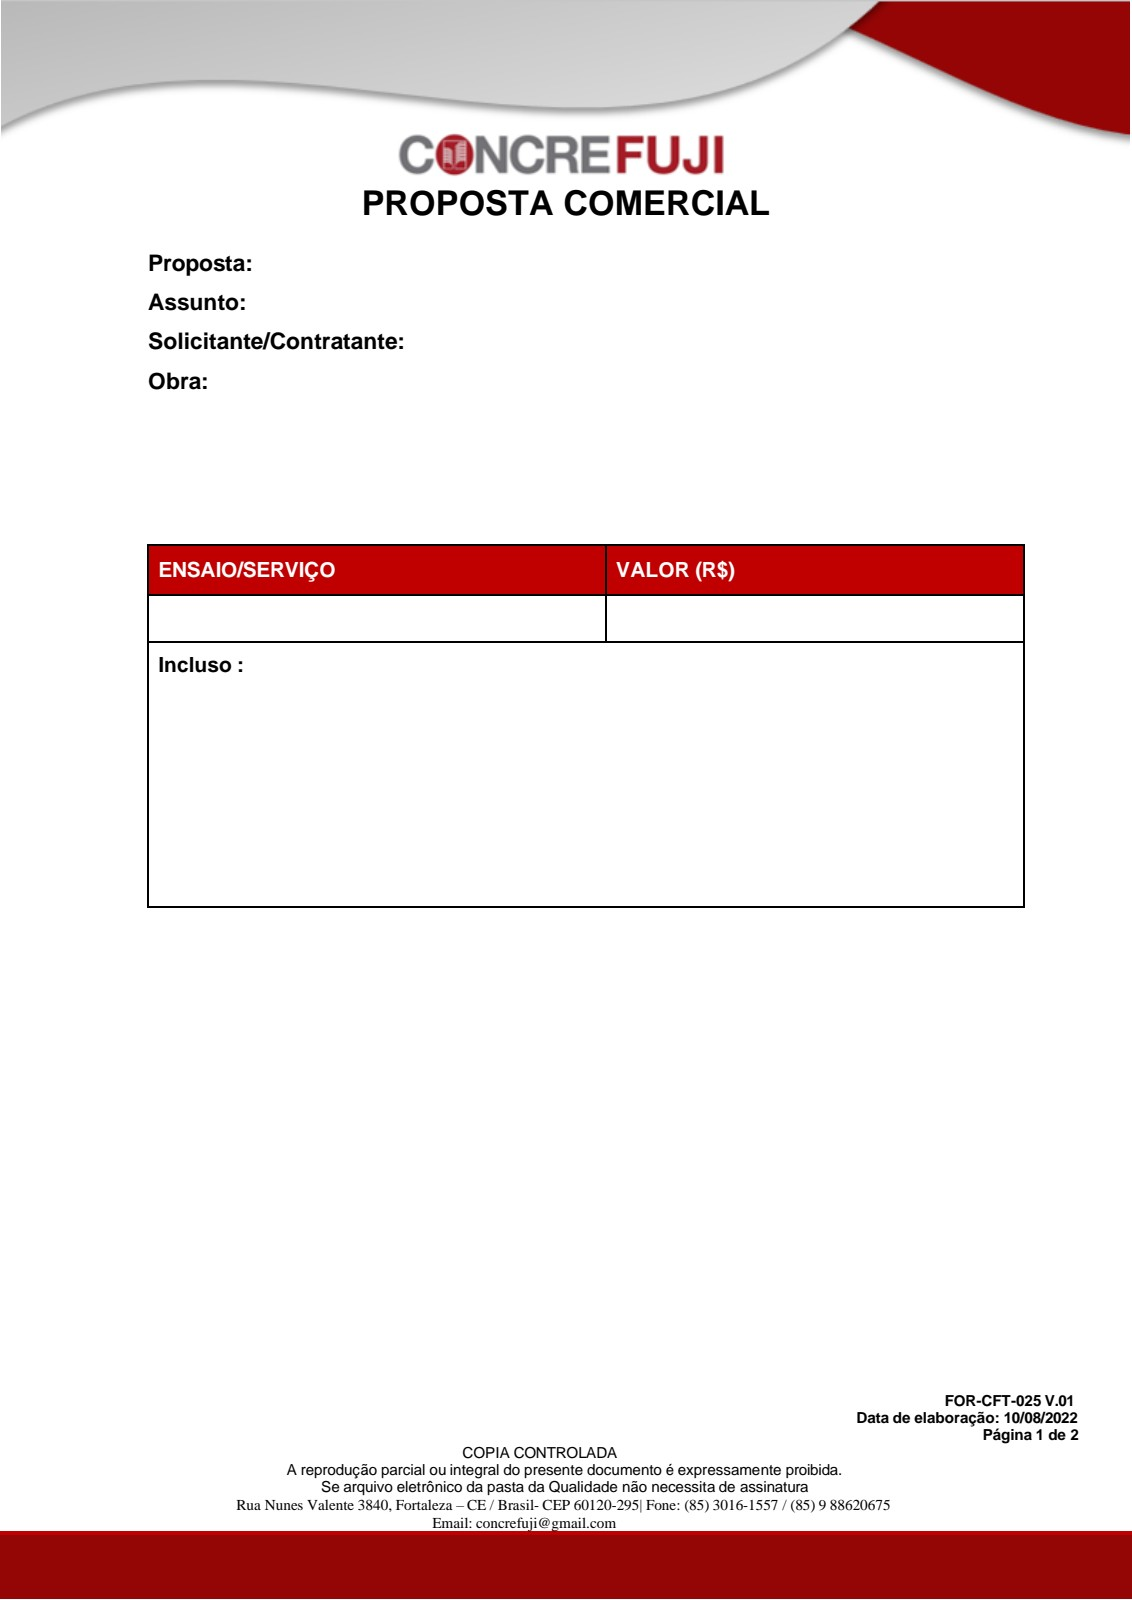
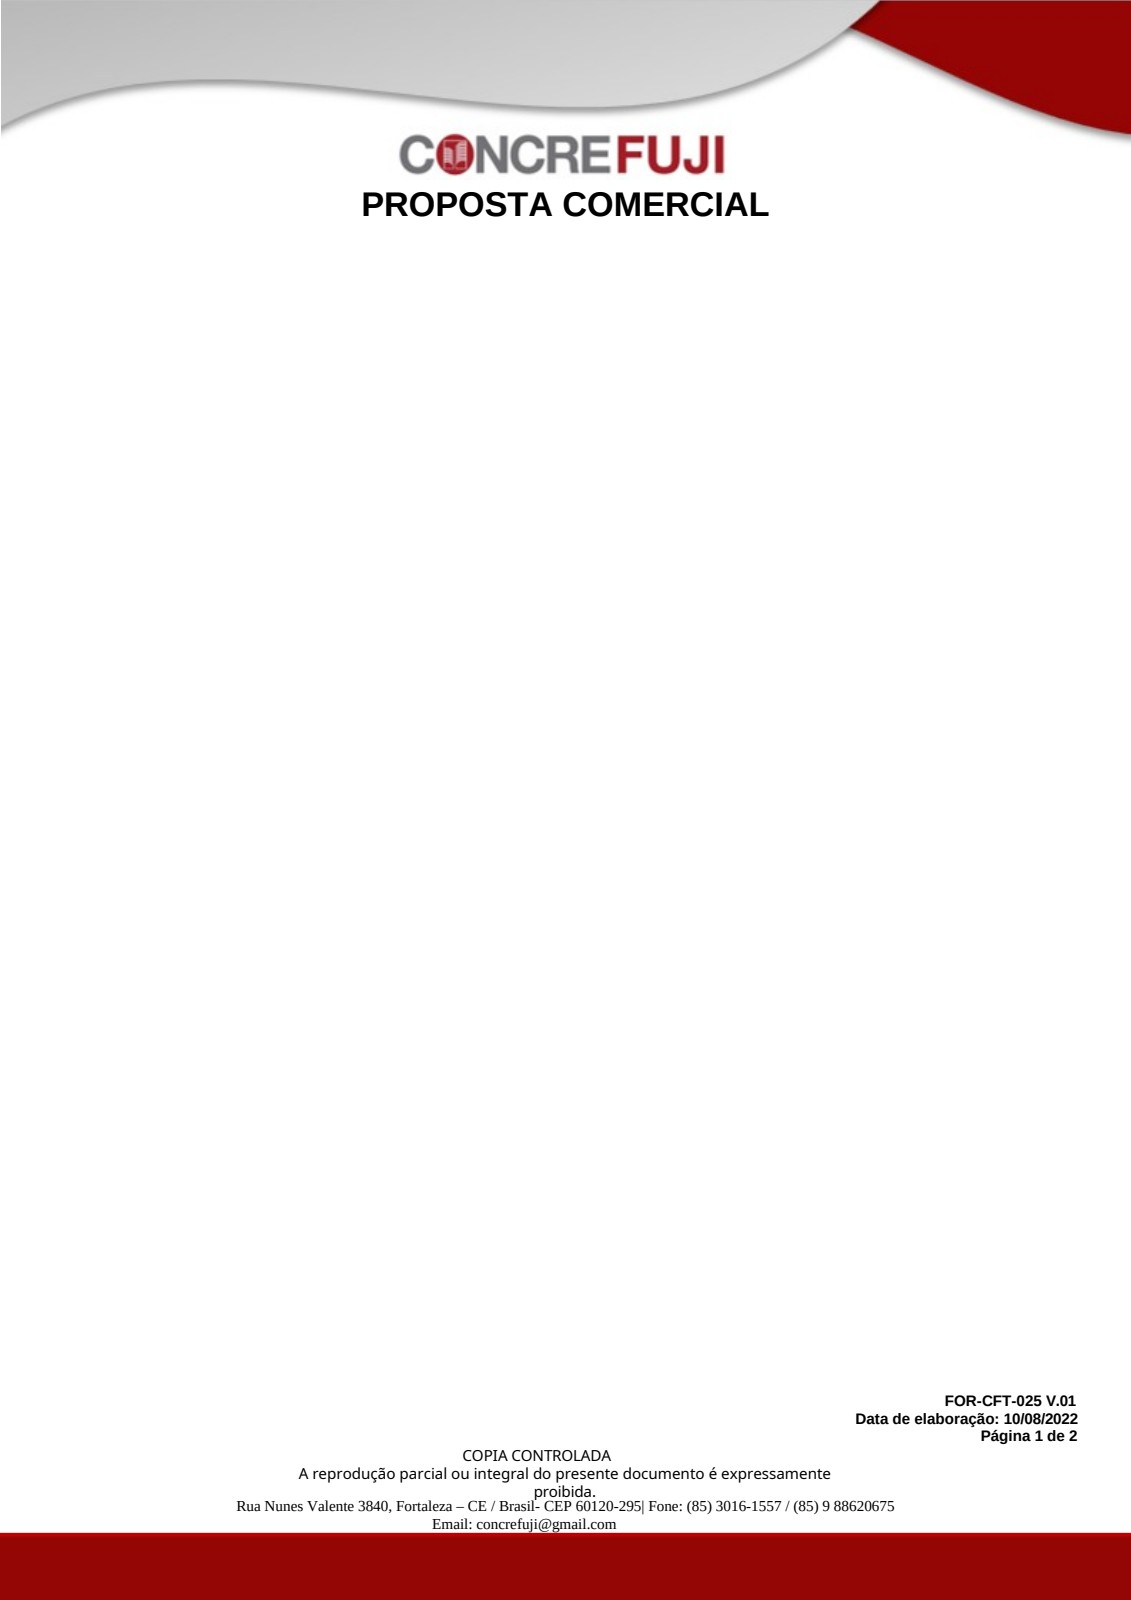
Changes

diff --git a/src/components/propostas/PropostaA4Preview.tsx b/src/components/propostas/PropostaA4Preview.tsx
@@ -2,8 +2,8 @@ import { forwardRef } from 'react';
 import { Proposta } from '@/hooks/usePropostas';
 import { format } from 'date-fns';
 import { ptBR } from 'date-fns/locale';
-import headerImg from '@/assets/proposta-header.png';
-import footerImg from '@/assets/proposta-footer.png';
+import page1Bg from '@/assets/proposta-page1-bg.jpg';
+import page2Bg from '@/assets/proposta-page2-bg.jpg';
 import assinaturaImg from '@/assets/proposta-assinatura.jpg';
 
 interface PropostaA4PreviewProps {
@@ -12,32 +12,28 @@ interface PropostaA4PreviewProps {
 
 const PAGE_STYLE: React.CSSProperties = {
   width: '210mm',
-  minHeight: '297mm',
+  height: '297mm',
   position: 'relative',
-  background: '#fff',
+  backgroundSize: '100% 100%',
+  backgroundRepeat: 'no-repeat',
+  backgroundPosition: 'center',
   fontFamily: "'Times New Roman', Times, serif",
   fontSize: '11px',
   lineHeight: 1.5,
   color: '#000',
   pageBreakAfter: 'always',
   boxSizing: 'border-box',
+  overflow: 'hidden',
 };
 
+/* Content area sits below the header graphic and above the footer */
 const CONTENT_STYLE: React.CSSProperties = {
-  padding: '12mm 22mm 38mm 22mm',
-};
-
-const HEADER_STYLE: React.CSSProperties = {
-  width: '100%',
-  display: 'block',
-};
-
-const FOOTER_STYLE: React.CSSProperties = {
   position: 'absolute',
-  bottom: 0,
-  left: 0,
-  width: '100%',
-  display: 'block',
+  top: '52mm',      /* below the header/logo area */
+  left: '22mm',
+  right: '22mm',
+  bottom: '52mm',   /* above the footer area */
+  overflow: 'hidden',
 };
 
 export const PropostaA4Preview = forwardRef<HTMLDivElement, PropostaA4PreviewProps>(
@@ -47,11 +43,10 @@ export const PropostaA4Preview = forwardRef<HTMLDivElement, PropostaA4PreviewPro
     return (
       <div ref={ref} className="proposta-print-root">
         {/* ═══ PAGE 1 ═══ */}
-        <div style={PAGE_STYLE}>
-          <img src={headerImg} alt="" style={HEADER_STYLE} />
+        <div style={{ ...PAGE_STYLE, backgroundImage: `url(${page1Bg})` }}>
           <div style={CONTENT_STYLE}>
             {/* INFO */}
-            <table style={{ width: '100%', fontSize: '10px', marginBottom: '6mm', borderCollapse: 'collapse' }}>
+            <table style={{ width: '100%', fontSize: '10px', marginBottom: '5mm', borderCollapse: 'collapse' }}>
               <tbody>
                 <tr>
                   <td style={{ padding: '2px 0' }}><strong>Proposta:</strong> {proposta.numero}</td>
@@ -152,12 +147,10 @@ export const PropostaA4Preview = forwardRef<HTMLDivElement, PropostaA4PreviewPro
               <strong>Validade da Proposta:</strong> {proposta.validade_dias} dias
             </p>
           </div>
-          <img src={footerImg} alt="" style={FOOTER_STYLE} />
         </div>
 
         {/* ═══ PAGE 2 ═══ */}
-        <div style={{ ...PAGE_STYLE, pageBreakAfter: 'auto' }}>
-          <img src={headerImg} alt="" style={HEADER_STYLE} />
+        <div style={{ ...PAGE_STYLE, pageBreakAfter: 'auto', backgroundImage: `url(${page2Bg})` }}>
           <div style={CONTENT_STYLE}>
             {/* ACEITE */}
             <SectionTitle>ACEITE DA PROPOSTA</SectionTitle>
@@ -171,17 +164,7 @@ export const PropostaA4Preview = forwardRef<HTMLDivElement, PropostaA4PreviewPro
               <p style={{ fontSize: '9px', color: '#666', marginTop: '1mm' }}>Assinatura do responsável pela autorização</p>
             </div>
             <p style={{ fontSize: '10px', marginBottom: '15mm' }}>Data: _____/_____/_______</p>
-
-            {/* ASSINATURA CONCREFUJI */}
-            <div style={{ marginTop: '20mm' }}>
-              <p style={{ fontWeight: 'bold', fontSize: '12px' }}>CONCREFUJI TECNOLOGIA</p>
-              <p style={{ fontWeight: 'bold' }}>RAFAELA FUJITA LIMA</p>
-              <p style={{ fontSize: '10px' }}>Engenheira Responsável</p>
-              <p style={{ fontSize: '10px' }}>CREA nº 12.208-D</p>
-              <img src={assinaturaImg} alt="Assinatura" style={{ width: '50mm', marginTop: '3mm' }} />
-            </div>
           </div>
-          <img src={footerImg} alt="" style={FOOTER_STYLE} />
         </div>
 
         <style>{`
